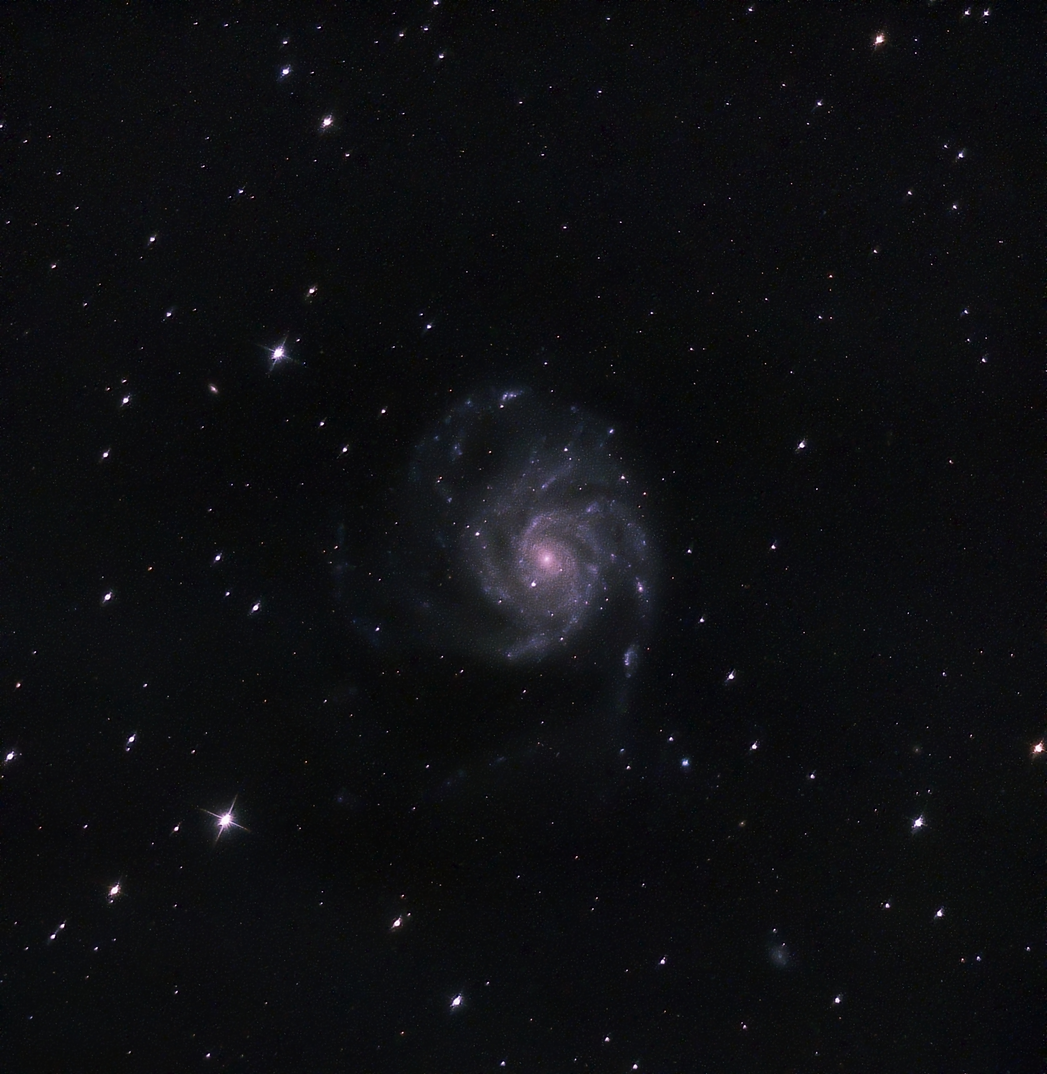
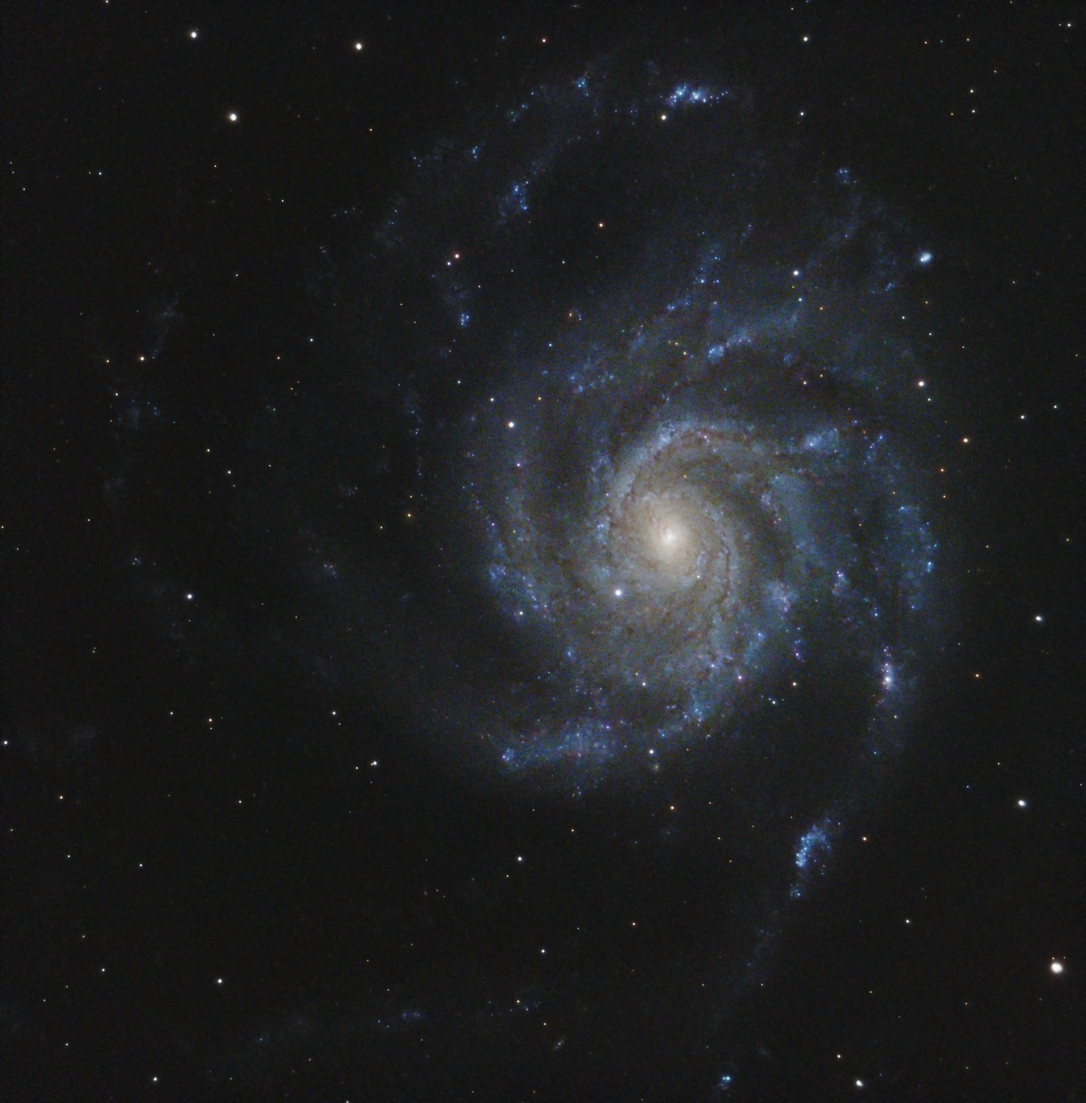
Refresh galaxy images and gallery metadata

diff --git a/astro.html b/astro.html
@@ -433,7 +433,7 @@ Offset: 50
 Subs: 141x60
 Scope: Celestron C8
 Filter: None
-Distance 22,200 ly
+Distance: 22,200 ly
 Constellation: Hercules
 Moon illumination: 99%`,
     date: "2026-05-29",
@@ -460,15 +460,15 @@ Constellation: Andromeda`,
     title: "Whirlpool Galaxy: M51",
     category: "Galaxy",
     src: "./astro/M51 - Whirlpool Galaxy.jpg",
-    details: `Date: 04/18/2025
+    details: `Date: 05/31/2026 - 06/01/2026
 Gain: 101
 Offset: 50
-Subs: 47x180
-Scope: 150mm Newtonian
-Filter: SVBony UV/IR Cut
+Subs: 336x60
+Scope: Celestron C8
+Filter: None
 Distance: 31 Mly
 Constellation: Canes Venatici`,
-    date: "2025-04-18",
+    date: "2026-05-31",
     rank: 6
   },
 
@@ -489,7 +489,7 @@ Constellation: Draco`,
   },
 
   {
-    title: "Silver Silver Galaxy: NGC891",
+    title: "Silver Sliver Galaxy: NGC891",
     category: "Galaxy",
     src: "./astro/NGC891 - Silver Silver Galaxy.jpg",
     details: `Date: 12/27/2024
@@ -505,7 +505,7 @@ Constellation: Andromeda`,
   },
 
   {
-    title: "Bodes Galaxy and Cigar Galaxy: M81 and M82",
+    title: "Bode's Galaxy and Cigar Galaxy: M81 and M82",
     category: "Galaxy",
     src: "./astro/M81 and M82 - Bodes Galaxy and Cigar Galaxy.jpg",
     details: `Date: 01/05/2024
@@ -529,7 +529,7 @@ Gain: 101
 Offset: 50
 Subs: 21x180
 Scope: 150mm Newtonian
-Filter: SVBony UV/IR cut
+Filter: SVBony UV/IR Cut
 Distance: 35 Mly
 Constellation: Leo`,
     date: "2025-03-22",
@@ -540,15 +540,15 @@ Constellation: Leo`,
     title: "Sunflower Galaxy: M63",
     category: "Galaxy",
     src: "./astro/M63 - Sunflower Galaxy.jpg",
-    details: `Date: 03/22/2025
+    details: `Date: 06/11/2026
 Gain: 101
 Offset: 50
-Subs: 50x180
-Scope: 150mm Newtonian
-Filter: SVBony UV/IR Cut
+Subs: 60s
+Scope: Celestron C8
+Filter: None
 Distance: 27 Mly
 Constellation: Canes Venatici`,
-    date: "2025-03-22",
+    date: "2026-06-11",
     rank: 10
   },
 
@@ -556,15 +556,15 @@ Constellation: Canes Venatici`,
     title: "Pinwheel Galaxy: M101",
     category: "Galaxy",
     src: "./astro/M101 - Pinwheel Galaxy.jpg",
-    details: `Date: 03/21/2025
+    details: `Date: 06/03/2026 - 06/04/2026
 Gain: 101
 Offset: 50
-Subs: 38x180
-Scope: 150mm Newtonian
-Filter: SVBony UV/IR Cut
+Subs: 343x60
+Scope: Celestron C8
+Filter: None
 Distance: 25 Mly
 Constellation: Ursa Major`,
-    date: "2025-03-21",
+    date: "2026-06-03",
     rank: 11
   },
 
@@ -585,7 +585,7 @@ Constellation: Leo`,
   },
 
   {
-    title: "Antennae Galaxies: NGC4038",
+    title: "Antennae Galaxies: NGC4038/NGC4039",
     category: "Galaxy",
     src: "./astro/NGC4038 - Antennae Galaxies.jpg",
     details: `Date: 03/23/2025
@@ -609,7 +609,7 @@ Gain: 101
 Offset: 50
 Subs: 10x180
 Scope: 150mm Newtonian
-Filter: SVBony UV/IR cut
+Filter: SVBony UV/IR Cut
 Distance: 51.9 Mly (M86)
 Constellation: Virgo`,
     date: "2025-03-21",
@@ -739,7 +739,7 @@ Subs: 10x240 (M3)
 Scope: 150mm Newtonian
 Filter: L-Ultimate
 Distance: 2,400 ly
-Constellatoin: Cygnus`,
+Constellation: Cygnus`,
     date: "2025-08-18",
     rank: 20
   },
@@ -777,7 +777,7 @@ Constellation: Cepheus`,
   },
 
   {
-    title: "Heart Nebula: IC1085",
+    title: "Heart Nebula: IC1805",
     category: "Emission Nebula",
     src: "./astro/IC1805 - Heart Nebula.jpg",
     details: `Date: 11/11/2025
@@ -817,7 +817,7 @@ Gain: 101
 Offset: 50
 Subs: 126x60
 Scope: 150mm Newtonian
-Filter: SVBony UV/IR cut
+Filter: SVBony UV/IR Cut
 Distance: 1,300 ly
 Constellation: Cepheus`,
     date: "2025-08-20",
@@ -826,7 +826,7 @@ Constellation: Cepheus`,
 
   {
     title: "Orion Nebula: M42",
-    category: "Reflection Nebula",
+    category: "Emission Nebula",
     src: "./astro/M42 - Orion Nebula.jpg",
     details: `Date: 11/08/2025
 Gain: 101
@@ -835,7 +835,7 @@ Subs: 166x60
 Scope: ASKAR FRA300 Pro
 Filter: None
 Distance: 1,300 ly
-Constellation: Cepheus`,
+Constellation: Orion`,
     date: "2025-11-08",
     rank: 26
   },
